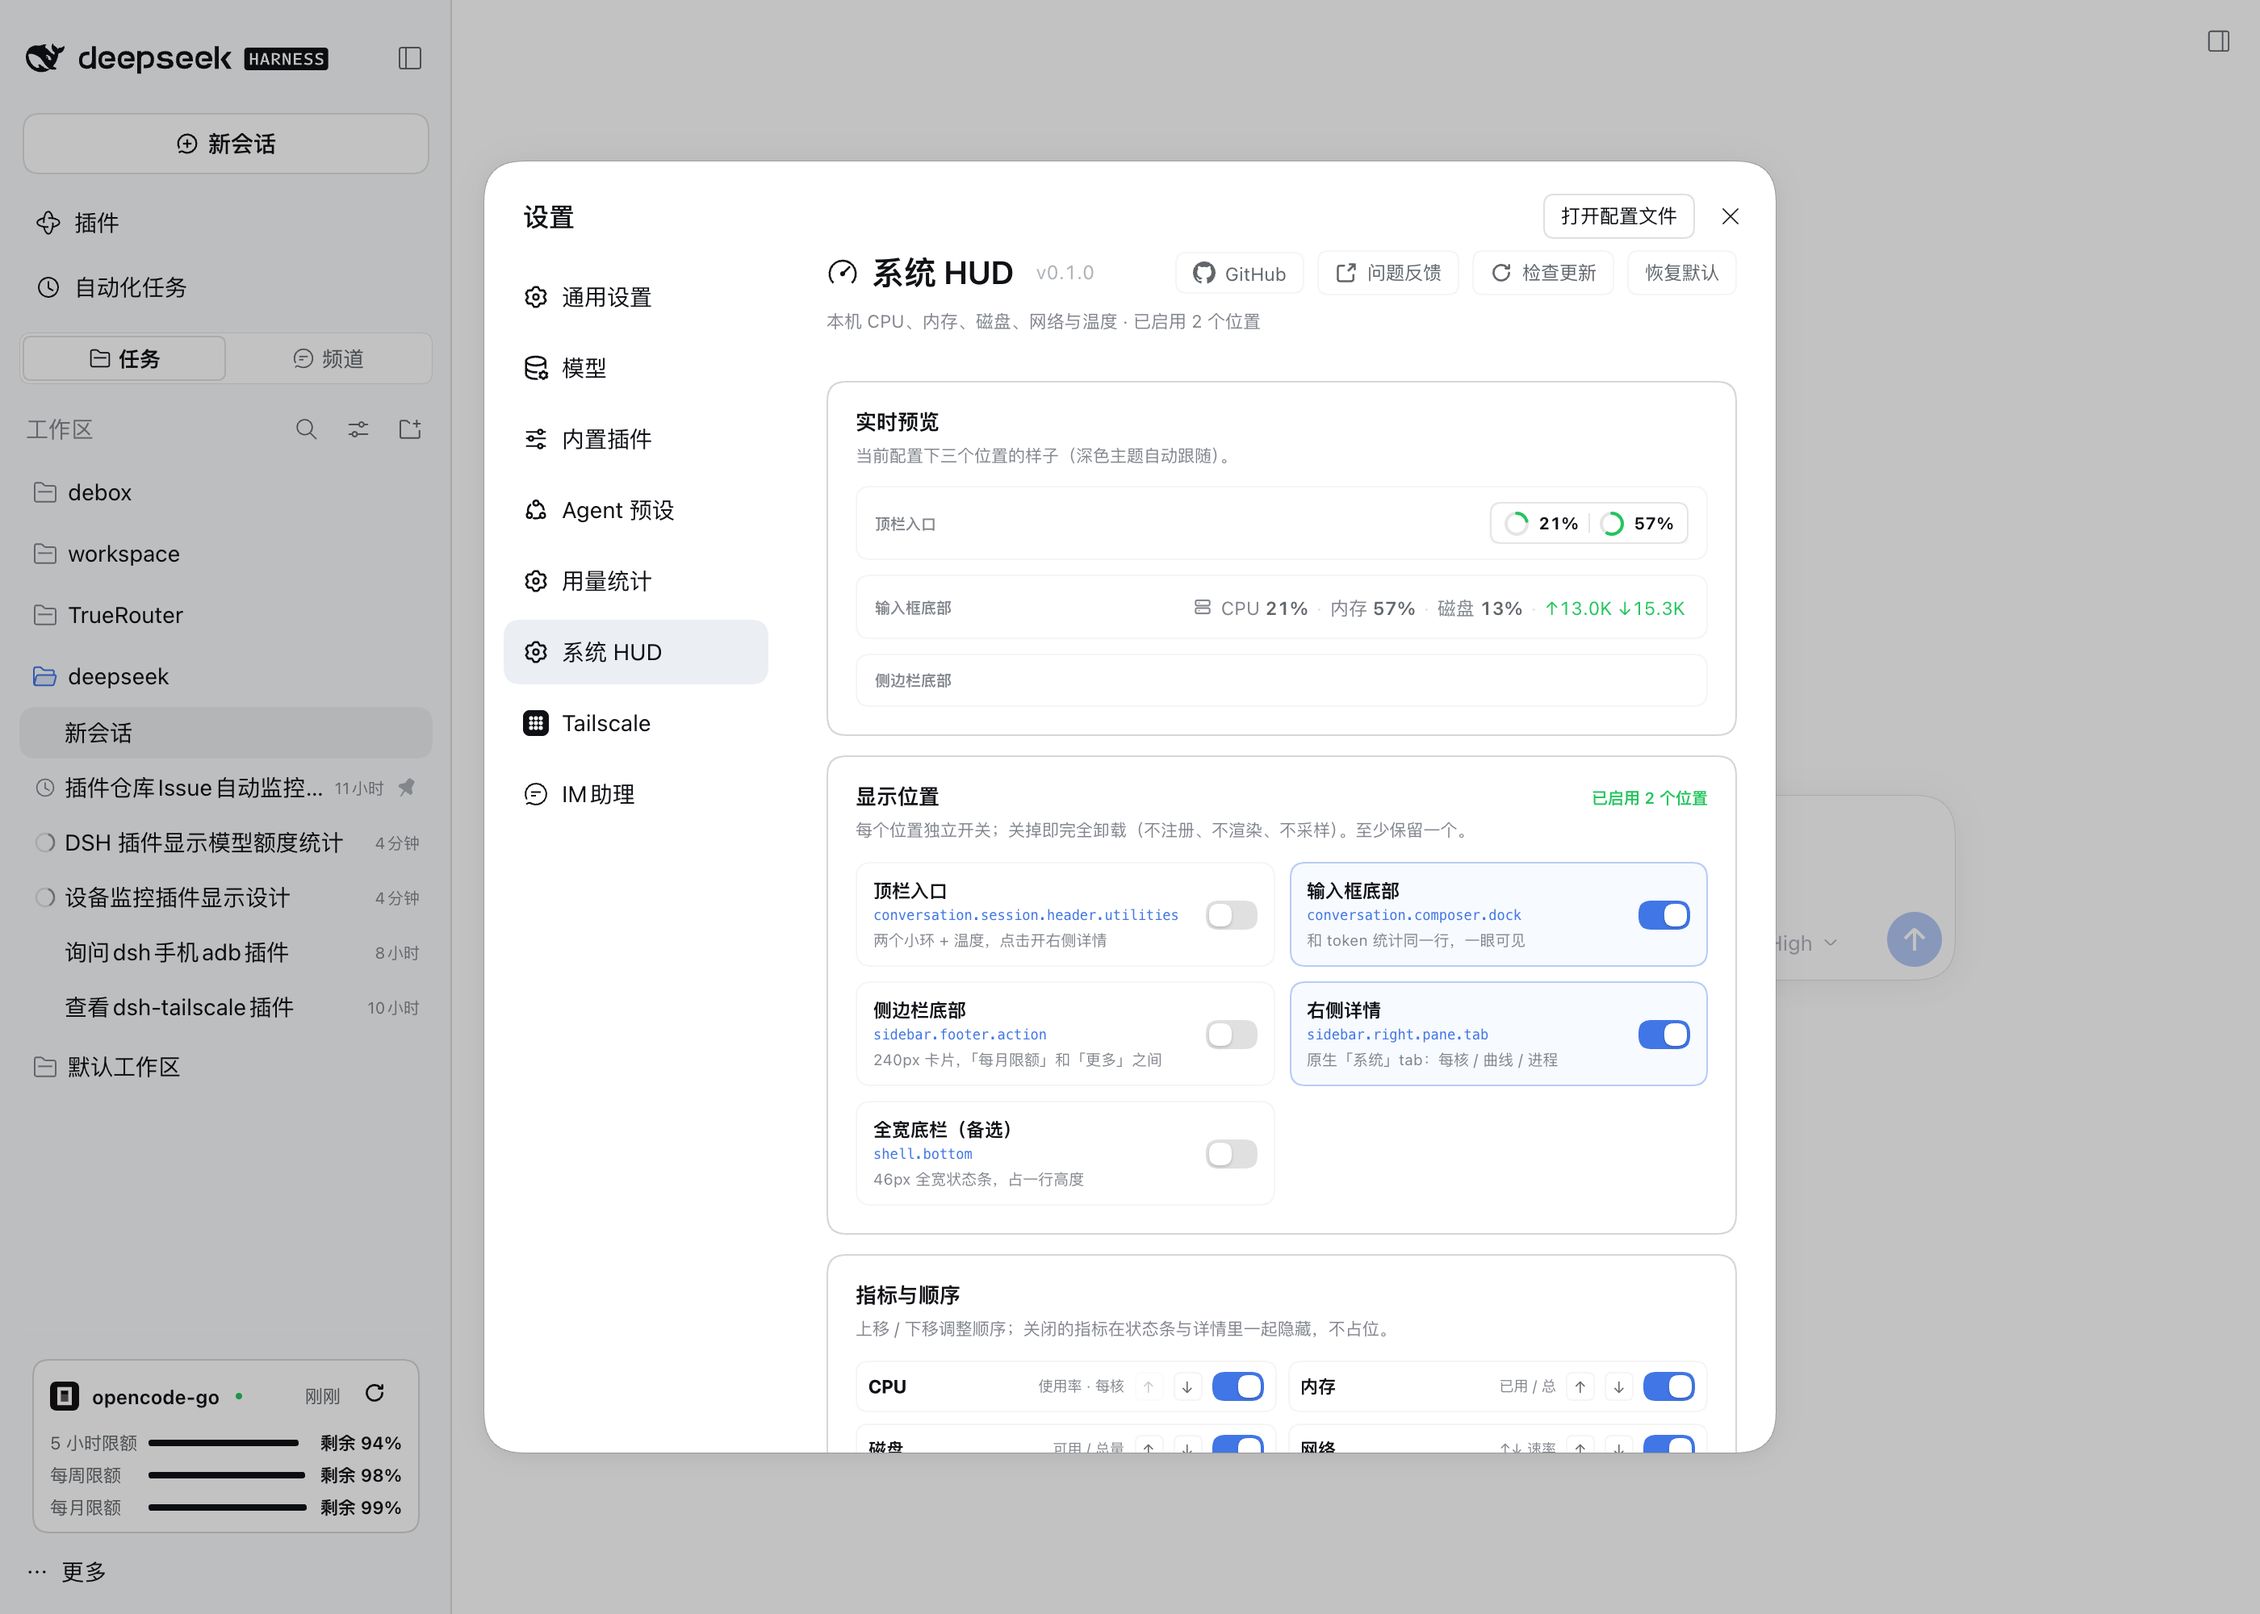
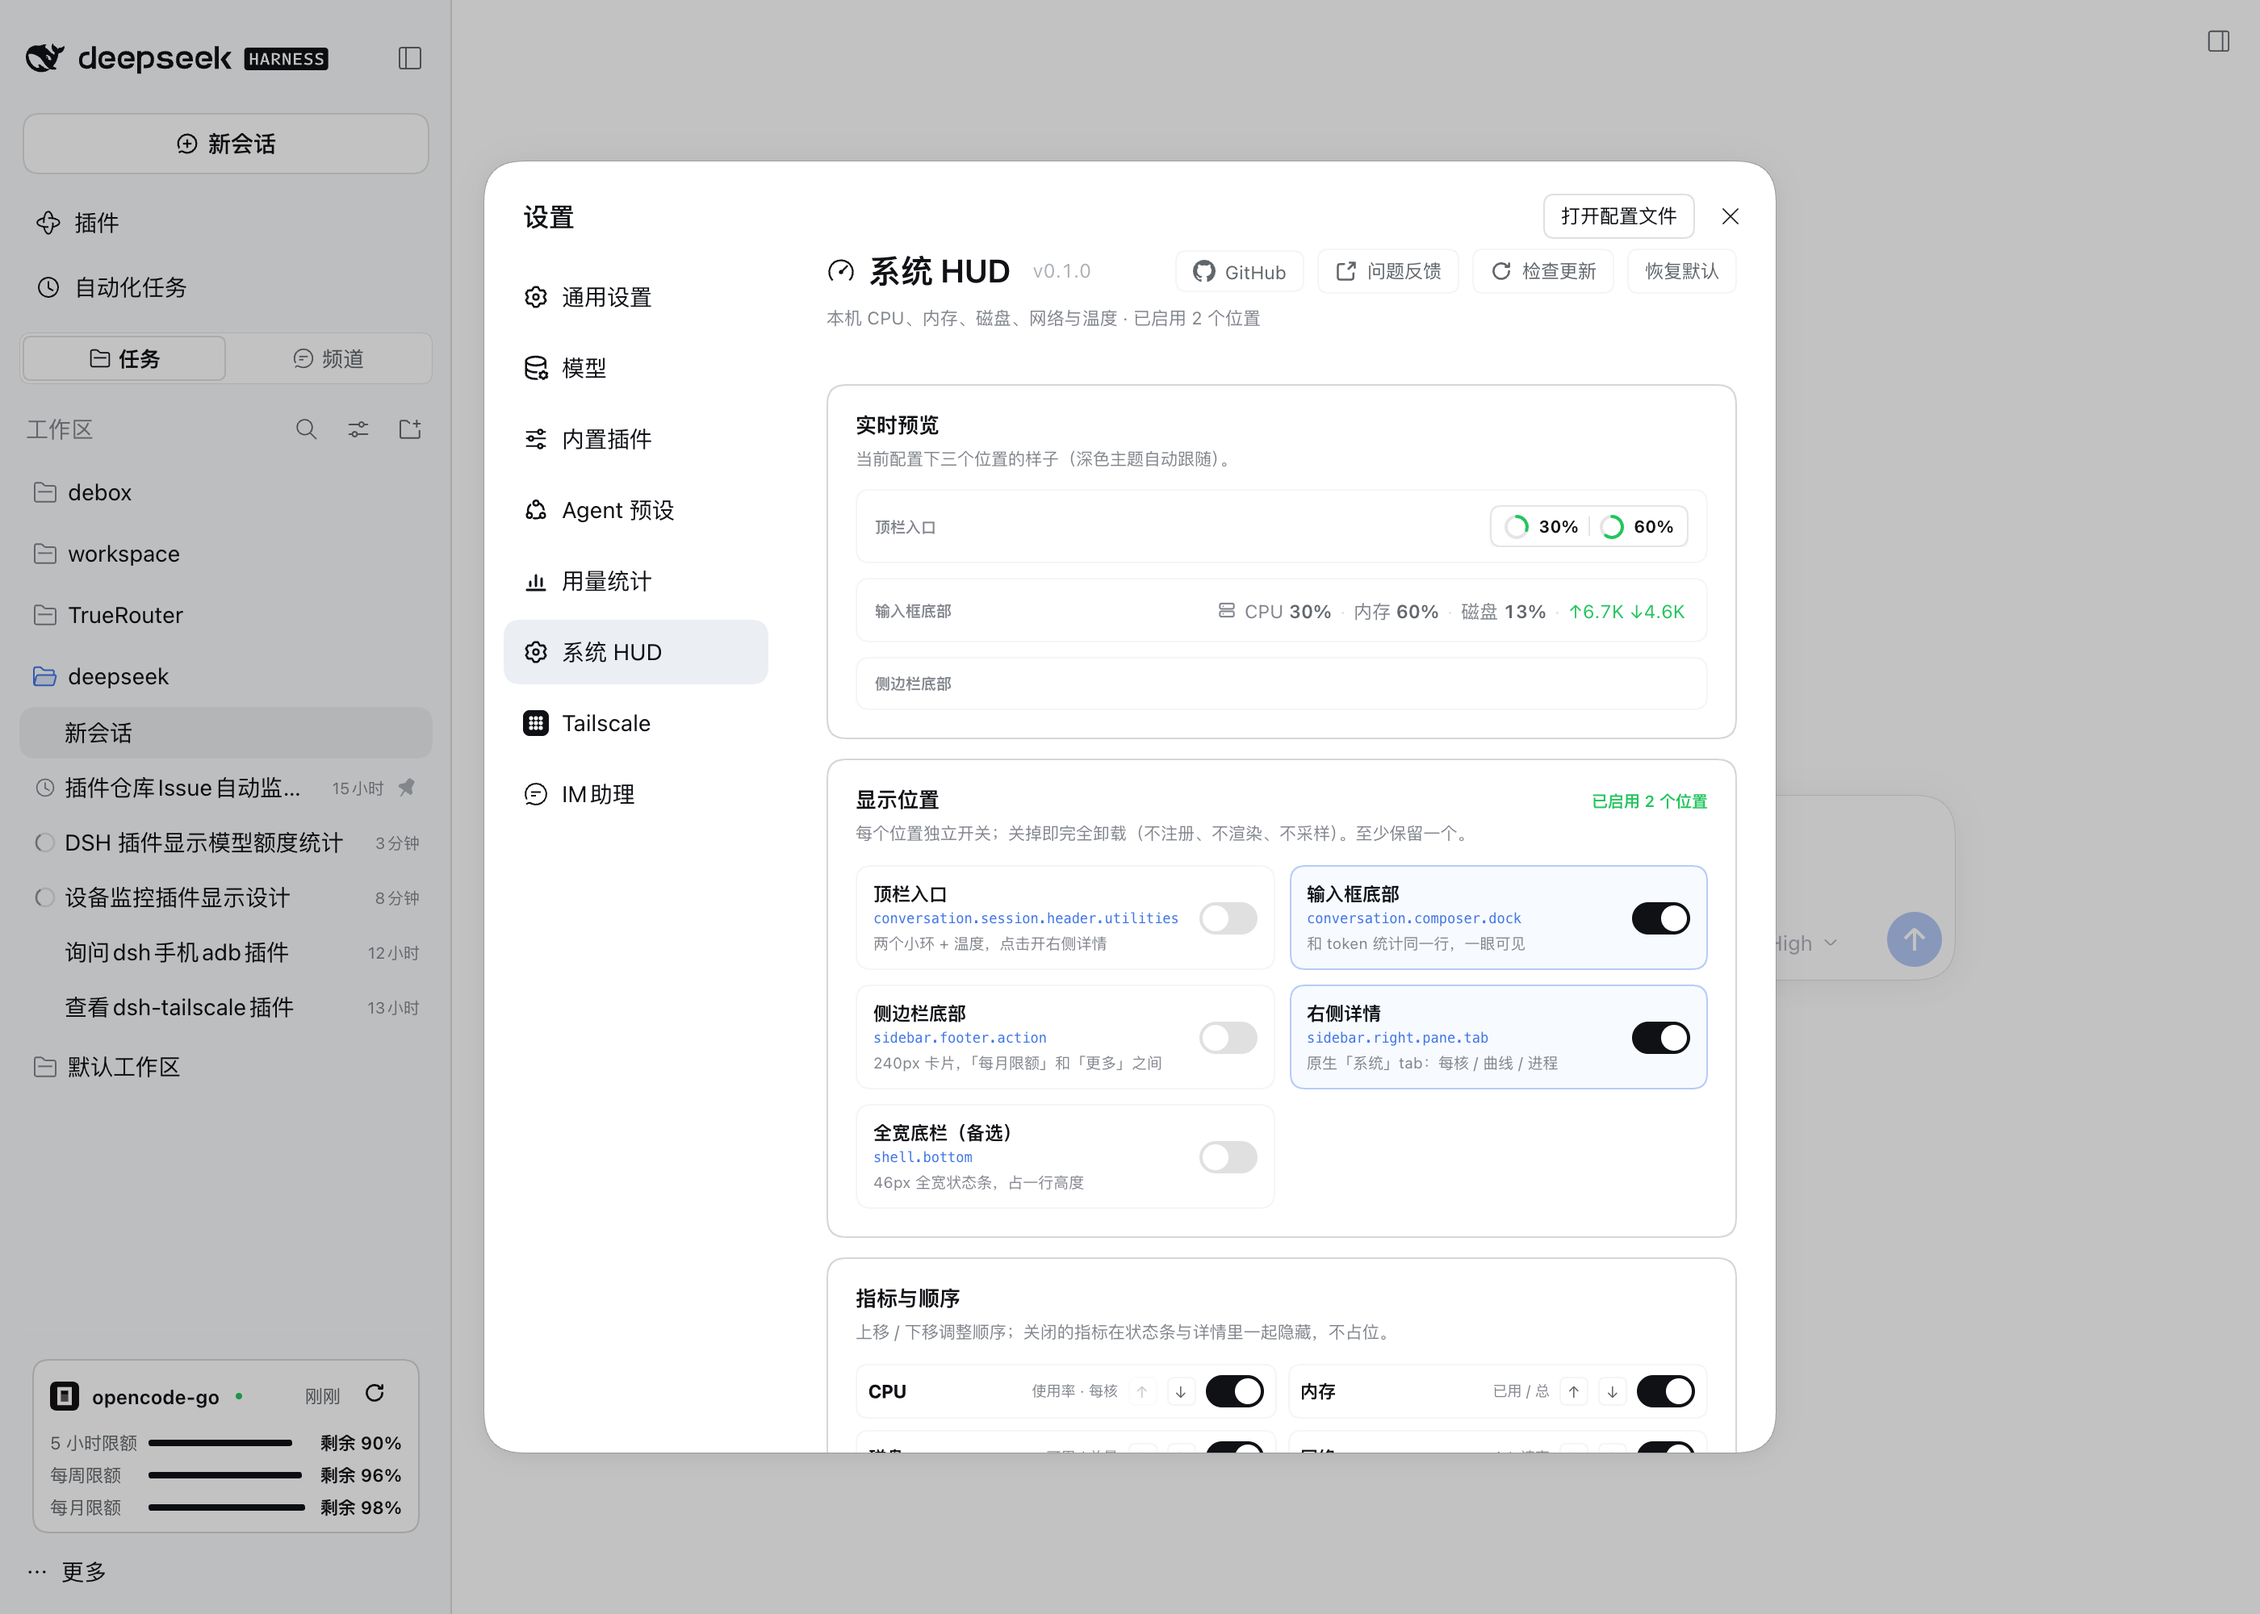
docs: 更新真实设置页截图（primitives Switch）

diff --git a/docs/CONSISTENCY.md b/docs/CONSISTENCY.md
@@ -44,6 +44,6 @@
 npm run check      # 语法 + i18n 162 键
 npm run smoke      # 38/38
 npm run test-ui    # 离线渲染 + 5 断言 + 截图
-npm run release-notes /tmp/notes.md
+node scripts/release-notes.mjs /tmp/notes.md
 npm pack --dry-run
 ```
